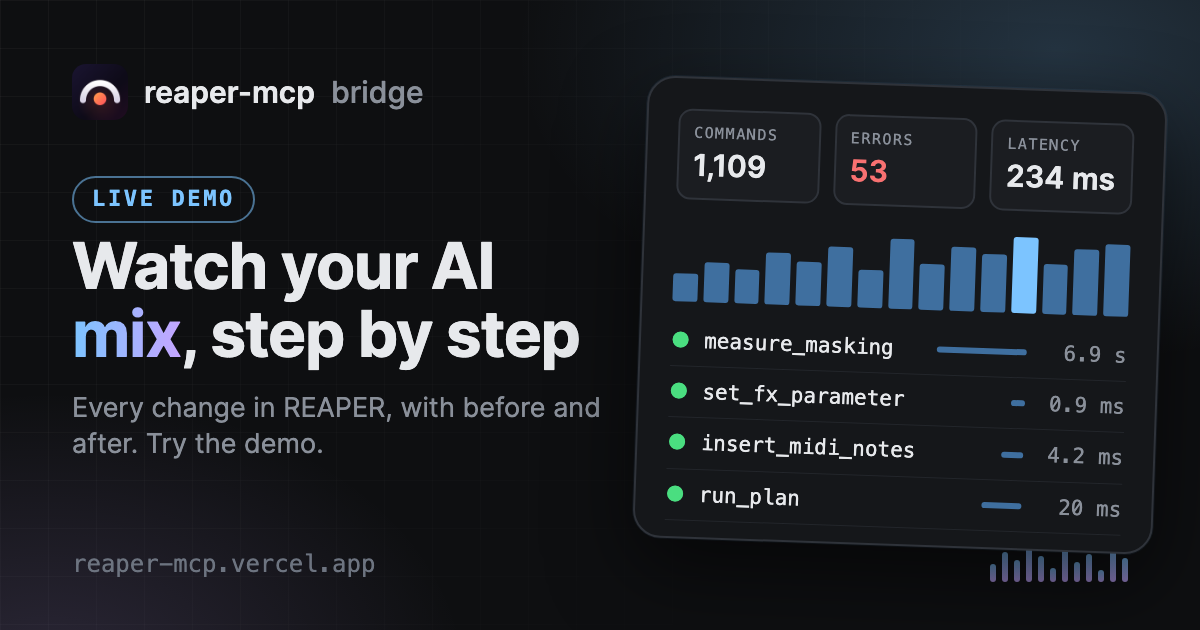
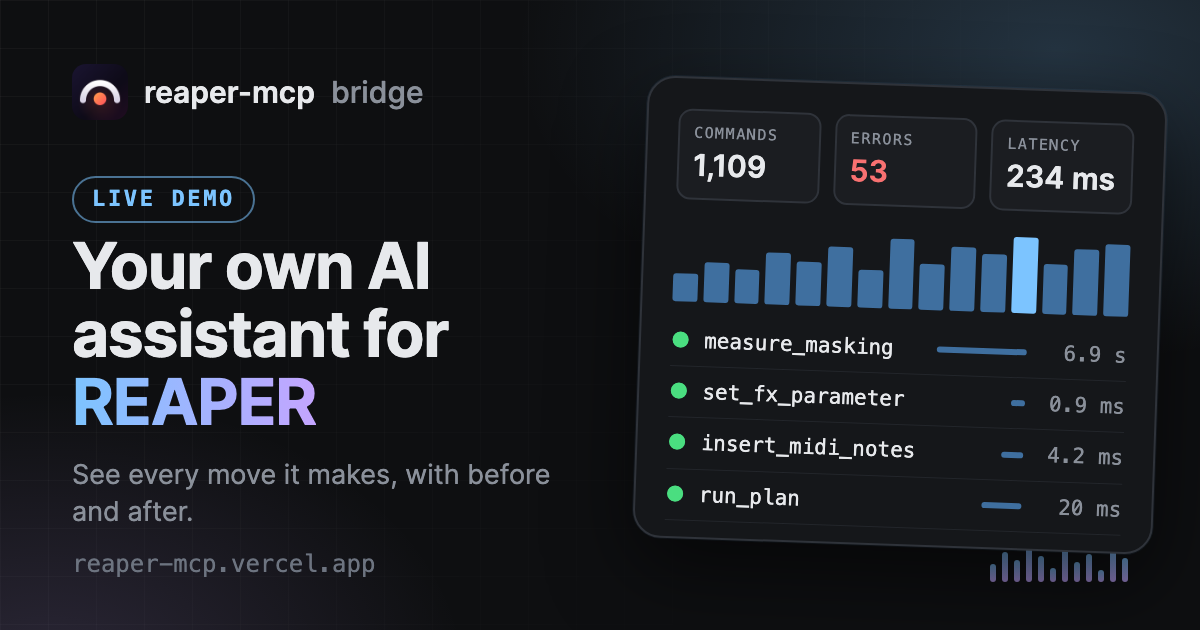
feat: plain headlines on the share pictures

Changed region(s): [[0.0617, 0.3619, 0.5242, 0.8444]]

diff --git a/apps/bridge-ui/src/lib/share-meta.ts b/apps/bridge-ui/src/lib/share-meta.ts
@@ -8,19 +8,19 @@ export type SharePage = 'bridge' | 'docs' | 'changelog';
 
 export const SHARE: Record<SharePage, { title: string; description: string; image: string; path: string }> = {
   bridge: {
-    title: 'reaper-mcp: watch your AI mix, step by step',
+    title: 'reaper-mcp: your own AI assistant for REAPER',
     description: 'Try the live demo: every change an AI assistant makes in a REAPER session, with before and after, so you can trust it and undo it.',
     image: 'share/og-bridge.png',
     path: '/',
   },
   docs: {
-    title: 'reaper-mcp docs: skip the tedious parts of mixing',
+    title: 'reaper-mcp documentation',
     description: 'An AI assistant inside REAPER that names, routes and gain-stages your tracks while you make music. Plain guides for musicians; you make every call.',
     image: 'share/og-docs.png',
     path: '/docs',
   },
   changelog: {
-    title: 'What’s new in reaper-mcp: new features, shown',
+    title: 'reaper-mcp changelog',
     description: 'Short clips and pictures of every change, so you can see what a release does for your sessions before you update.',
     image: 'share/og-changelog.png',
     path: '/changelog',
